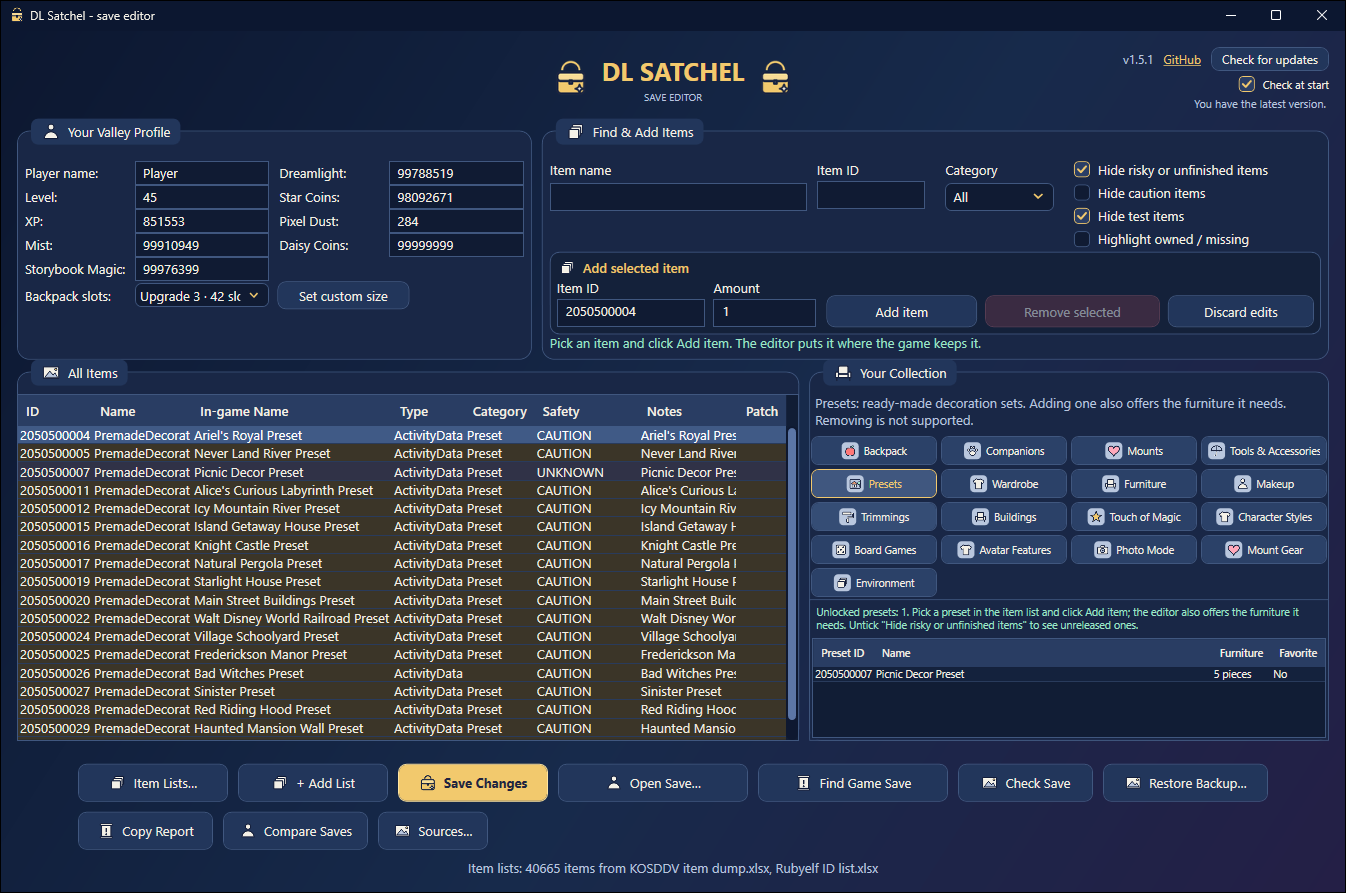
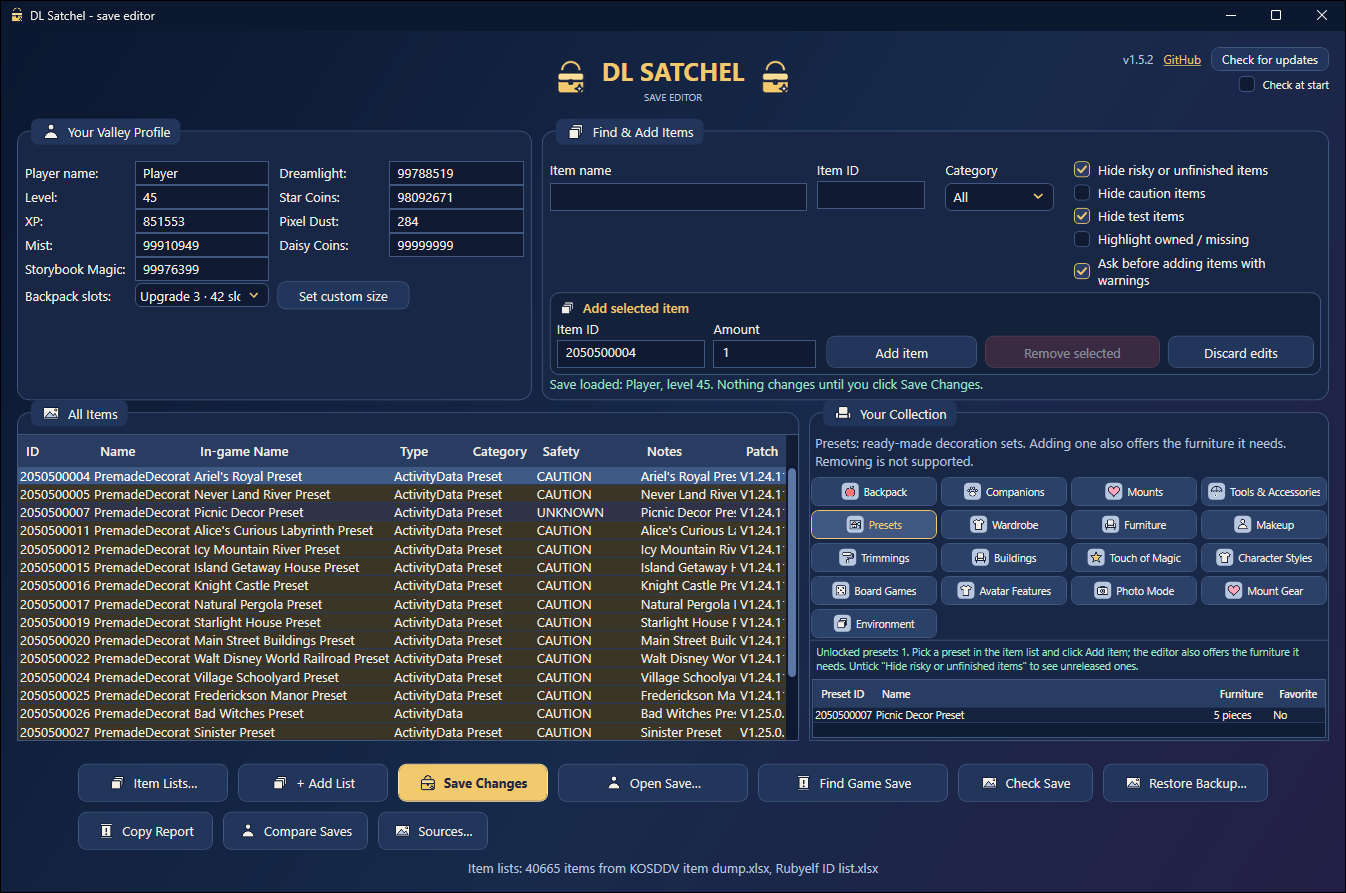
Loose ends: lists explained, screenshots, small fixes
- README and Sources say what the two lists are: the dump is read from the game files and has unchecked items too; Rubyelf's list is checked and described by players
- a new list from a link never overwrites a list with the same sheet name
- saving a report in Sources can't close the editor
- plain text for memories
- Add all missing shows only groups that have items
- README screenshots show the current version

Changed region(s): [[0.0, 0.2721, 0.9985, 0.8466], [0.8737, 0.0907, 0.9673, 0.1209], [0.5305, 0.3024, 0.5617, 0.3326]]

diff --git a/src/DLSatchel/Views/SourcesWindow.xaml b/src/DLSatchel/Views/SourcesWindow.xaml
@@ -112,7 +112,7 @@
                            RequestNavigate="Link_RequestNavigate" Foreground="{StaticResource DreamlightGold}">Rubyelf's ID list</Hyperlink><Run Text=". If a link stops working, the"/>
                 <Hyperlink NavigateUri="https://fearlessrevolution.com/viewtopic.php?f=2&amp;t=21330"
                            RequestNavigate="Link_RequestNavigate" Foreground="{StaticResource DreamlightGold}">forum thread</Hyperlink>
-                <Run Text="has the news; paste a new link in the Link column, or add the Excel file with Add Excel."/>
+                <Run Text="has the news; paste a new link in the Link column, or add the Excel file with Add Excel. The dump is read from the game files and has everything, unchecked items too; Rubyelf's list is checked and described by players."/>
             </TextBlock>
         </DockPanel>
     </Grid>

diff --git a/tests/DLSatchel.Tests/SourceDownloaderTests.cs b/tests/DLSatchel.Tests/SourceDownloaderTests.cs
@@ -80,6 +80,21 @@ namespace DDV.SaveEditor.Tests
         }
 
         [Fact]
+        public async Task TwoNewListsWithTheSameSheetName_GetTheirOwnFiles()
+        {
+            using var first = new OneFileServer(Csv(12), fileName: "list.csv");
+            using var second = new OneFileServer(Csv(15), fileName: "list.csv");
+
+            var a = await SourceDownloader.UpdateAsync(first.Url, null, 0);
+            var b = await SourceDownloader.UpdateAsync(second.Url, null, 0);
+
+            Assert.True(a.Updated && b.Updated, a.Message + " / " + b.Message);
+            Assert.NotEqual(a.Path, b.Path);
+            Assert.Equal(Csv(12), File.ReadAllText(a.Path!));   // the first list was not overwritten
+            Assert.Equal(Csv(15), File.ReadAllText(b.Path!));
+        }
+
+        [Fact]
         public async Task GoodDownload_ReplacesACopyInTheEditorsFolder_KeepingTheOldOne()
         {
             Directory.CreateDirectory(SourceDownloader.ListsDirectory);
@@ -261,7 +276,7 @@ namespace DDV.SaveEditor.Tests
             private readonly TcpListener _listener = new(IPAddress.Loopback, 0);
             private readonly CancellationTokenSource _stop = new();
 
-            public OneFileServer(string body, string status = "200 OK")
+            public OneFileServer(string body, string status = "200 OK", string? fileName = null)
             {
                 _listener.Start();
                 byte[] content = Encoding.UTF8.GetBytes(body);
@@ -277,7 +292,8 @@ namespace DDV.SaveEditor.Tests
                             var stream = client.GetStream();
                             var buffer = new byte[4096];
                             await stream.ReadAsync(buffer);
-                            string head = $"HTTP/1.1 {status}\r\nContent-Length: {content.Length}\r\nConnection: close\r\n\r\n";
+                            string disposition = fileName == null ? "" : $"Content-Disposition: attachment; filename=\"{fileName}\"\r\n";
+                            string head = $"HTTP/1.1 {status}\r\nContent-Length: {content.Length}\r\n{disposition}Connection: close\r\n\r\n";
                             await stream.WriteAsync(Encoding.ASCII.GetBytes(head));
                             await stream.WriteAsync(content);
                         }

diff --git a/src/DLSatchel/Views/SourcesWindow.xaml.cs b/src/DLSatchel/Views/SourcesWindow.xaml.cs
@@ -382,8 +382,15 @@ namespace DDV_SaveEditor_G
             };
             if (dlg.ShowDialog() == true)
             {
-                CatalogReport.SaveJson(catalog.Diagnostics, dlg.FileName);
-                MessageBox.Show($"Report saved:\n{dlg.FileName}", "Saved", MessageBoxButton.OK, MessageBoxImage.Information);
+                try
+                {
+                    CatalogReport.SaveJson(catalog.Diagnostics, dlg.FileName);
+                    MessageBox.Show($"Report saved:\n{dlg.FileName}", "Saved", MessageBoxButton.OK, MessageBoxImage.Information);
+                }
+                catch (Exception ex) when (ex is IOException or UnauthorizedAccessException)
+                {
+                    MessageBox.Show($"The report could not be saved: {ex.Message}", "Report", MessageBoxButton.OK, MessageBoxImage.Warning);
+                }
             }
         }
 
@@ -400,8 +407,15 @@ namespace DDV_SaveEditor_G
             };
             if (dlg.ShowDialog() == true)
             {
-                CatalogReport.SaveMarkdown(catalog.Diagnostics, dlg.FileName);
-                MessageBox.Show($"Report saved:\n{dlg.FileName}", "Saved", MessageBoxButton.OK, MessageBoxImage.Information);
+                try
+                {
+                    CatalogReport.SaveMarkdown(catalog.Diagnostics, dlg.FileName);
+                    MessageBox.Show($"Report saved:\n{dlg.FileName}", "Saved", MessageBoxButton.OK, MessageBoxImage.Information);
+                }
+                catch (Exception ex) when (ex is IOException or UnauthorizedAccessException)
+                {
+                    MessageBox.Show($"The report could not be saved: {ex.Message}", "Report", MessageBoxButton.OK, MessageBoxImage.Warning);
+                }
             }
         }
 

diff --git a/src/DLSatchel/Data/SourceDownloader.cs b/src/DLSatchel/Data/SourceDownloader.cs
@@ -198,6 +198,14 @@ namespace DDV_SaveEditor_G.Data
                     ? targetPath
                     : System.IO.Path.Combine(ListsDirectory, targetPath != null ? System.IO.Path.GetFileName(targetPath) : label);
                 Directory.CreateDirectory(System.IO.Path.GetDirectoryName(destination)!);
+                if (targetPath == null)
+                {
+                    // A new list whose sheet has the same name as one you have: "Name (2).xlsx", never over it.
+                    string stem = System.IO.Path.GetFileNameWithoutExtension(destination);
+                    string ext = System.IO.Path.GetExtension(destination);
+                    for (int n = 2; File.Exists(destination); n++)
+                        destination = System.IO.Path.Combine(ListsDirectory, $"{stem} ({n}){ext}");
+                }
                 if (File.Exists(destination))
                 {
                     Directory.CreateDirectory(BackupDirectory);

diff --git a/src/DLSatchel/Modules/ItemPlacement.cs b/src/DLSatchel/Modules/ItemPlacement.cs
@@ -125,7 +125,7 @@ namespace DDV_SaveEditor_G.Modules
 
                 case "MemoryShard":
                     // Player.MemoryShards = { ID: maska zebranych kawałków } (wartości 1, 2, 4 … 938) – liczby kawałków nie znamy
-                    return Unsupported("MemoryShards stores collected memory fragments as a bit mask. Editing this format is not supported.");
+                    return Unsupported("Memories can't be added by the editor.");
 
                 case "Character":
                     return Unsupported("This is a character. Characters join your valley through the story; the editor can't add them.");

diff --git a/src/DLSatchel/Views/AddMissingDialog.xaml.cs b/src/DLSatchel/Views/AddMissingDialog.xaml.cs
@@ -33,7 +33,7 @@ namespace DDV_SaveEditor_G
                     IsChecked = MissingItems.CheckedByDefault(g) && missing.Any(m => m.Group == g)
                 })
                 .ToList();
-            GroupList.ItemsSource = _groups;
+            GroupList.ItemsSource = _groups.Where(g => g.HasItems).ToList();   // empty groups are only clutter
             IntroText.Text = $"{collection}: you don't have {missing.Count:N0} of the items your lists know. " +
                              "Choose which kinds to add.";
             UpdateButton();

diff --git a/README.md b/README.md
@@ -12,7 +12,7 @@ Add items, clothes, furniture, companions and coins to your save on PC.
 <a href="https://ko-fi.com/Dysprohol"><img alt="Ko-fi" src="https://img.shields.io/badge/Ko--fi-support-FF5E5B?logo=ko-fi&logoColor=white"></a>
 </p>
 
-![The editor with a save open](docs/img/screen-overview.png?v=1.5.1)
+![The editor with a save open](docs/img/screen-overview.png?v=1.5.2)
 
 Your whole game is kept in one file on your PC. DL Satchel opens that file and shows it as simple
 lists. You pick what you want, click **Save Changes**, start the game - and it is there.
@@ -28,8 +28,10 @@ handles that by itself. Before every save it makes a backup, so you can always g
    [Releases](https://github.com/Dysprohol/DLSatchel/releases). It is one file, nothing to install.
 2. **Two item lists** - the editor does **not** work without them. Players on the FearLess
    Revolution forum keep them up to date, and the editor downloads them for you:
-   - [KOSDDV item dump](https://docs.google.com/spreadsheets/d/1uxiBlhMhTtuo7xMd5gGsj7H7GyowfOlJqfA-R_i5jjM/edit)
-   - [Rubyelf's ID list](https://docs.google.com/spreadsheets/d/1bBrfqq6m9qqZDXFVtqf646xD5LvLM2W1q1YTH0YVoZo/edit)
+   - [KOSDDV item dump](https://docs.google.com/spreadsheets/d/1uxiBlhMhTtuo7xMd5gGsj7H7GyowfOlJqfA-R_i5jjM/edit) -
+     read from the game files: every item, including unfinished and developer ones nobody has checked.
+   - [Rubyelf's ID list](https://docs.google.com/spreadsheets/d/1bBrfqq6m9qqZDXFVtqf646xD5LvLM2W1q1YTH0YVoZo/edit) -
+     checked and described by players. Items only in the dump are shown as "not checked by the community".
 
    New items and questions: [the forum thread](https://fearlessrevolution.com/viewtopic.php?f=2&t=21330),
    where the people who make the lists post.
@@ -46,12 +48,12 @@ handles that by itself. Before every save it makes a backup, so you can always g
    To add several at once, select them with **Ctrl** or **Shift** and click **Add item**.
    Companions are added the same way and show up in the game's Companions menu.
 
-   ![Finding and adding an item](docs/img/screen-add-item.png?v=1.5.1)
+   ![Finding and adding an item](docs/img/screen-add-item.png?v=1.5.2)
 
 6. To remove something, open a collection on the right (for example **Furniture**), select it and
    click **Remove selected**. Coins and level are at the top left.
 
-   ![Your furniture](docs/img/screen-collection.png?v=1.5.1)
+   ![Your furniture](docs/img/screen-collection.png?v=1.5.2)
 
 7. Click **Save Changes**. The editor shows what will change (for example "Backpack") and asks you
    to confirm. Then start the game.
@@ -62,7 +64,7 @@ Things your character holds - umbrellas, parasols and the like - are **not cloth
 them together with your tools. Open the **Tools & Accessories** tab, find the item and click
 **Add item**. It is added unequipped, so you pick it in the game.
 
-![Tools and accessories](docs/img/screen-tools.png?v=1.5.1)
+![Tools and accessories](docs/img/screen-tools.png?v=1.5.2)
 
 ## Decoration presets
 
@@ -75,7 +77,7 @@ pieces you are missing and can add them to your furniture storage in one go.
 Most presets come from the shop. The ones the lists call "unreleased" are hidden at first: untick
 **Hide risky or unfinished items** to see them.
 
-![Decoration presets](docs/img/screen-presets-furniture.png?v=1.5.1)
+![Decoration presets](docs/img/screen-presets-furniture.png?v=1.5.2)
 
 ## Adding everything you're missing
 
@@ -94,7 +96,7 @@ group here, unticked. A player lost that expansion's area after adding such item
 Nothing here is guaranteed. The lists are made by players and can be wrong, especially right after
 a game update. **Back up your save, add a little, check in the game, then add more.**
 
-![Adding everything you're missing](docs/img/screen-add-missing.png?v=1.5.1)
+![Adding everything you're missing](docs/img/screen-add-missing.png?v=1.5.2)
 
 ## Mermaid parts and ships
 
